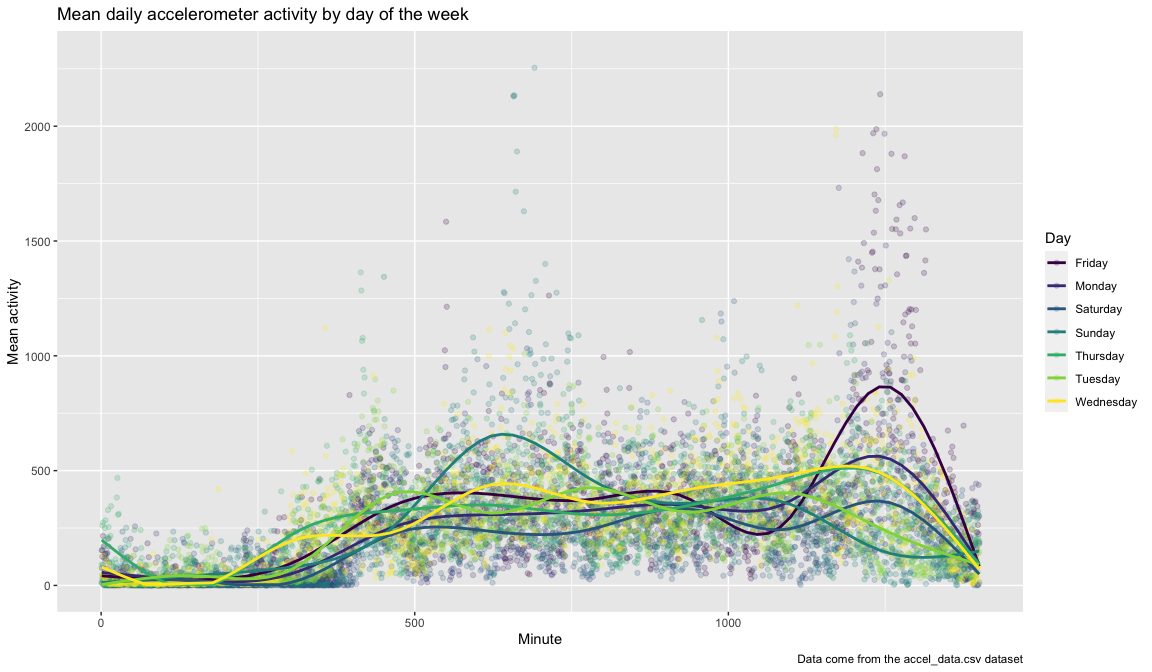
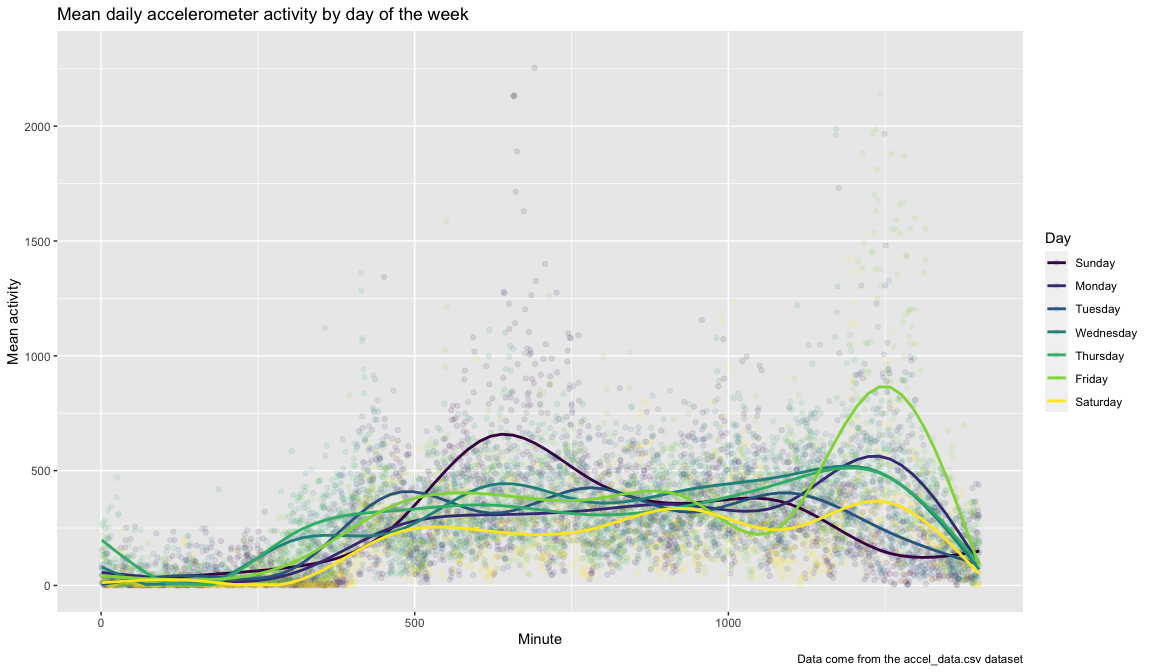
Problem 2 relevel days of the week

diff --git a/p8105_hw3_my2731.md b/p8105_hw3_my2731.md
@@ -153,16 +153,19 @@ dataset, which contains five weeks of accelerometer data collected on a
 Center of Columbia University Medical Center and diagnosed with
 congestive heart failure (CHF).
 
-We will apply snake case to all the variables, add a logical `weekend`
-variable that is `TRUE` if `day == c("Saturday", "Sunday")` and `FALSE`
-otherwise.
+We will apply snake case to all the variables, categorize and re-level
+the `day` variable according to the days of the week, and add a logical
+`weekend` variable that is `TRUE` if `day == c("Saturday", "Sunday")`
+and `FALSE` otherwise.
 
 ``` r
 accel_data =
   read_csv("./data/accel_data.csv") %>% 
   janitor::clean_names() %>% 
   mutate(
-    weekend = ifelse(day == "Saturday" | day == "Sunday", TRUE, FALSE)) %>% 
+    weekend = ifelse(day == "Saturday" | day == "Sunday", TRUE, FALSE),
+    day = factor(day, levels = c("Sunday", "Monday", "Tuesday", "Wednesday", 
+                                 "Thursday", "Friday", "Saturday"))) %>% 
   relocate(weekend, .after = day)
 
 accel_data
@@ -170,7 +173,7 @@ accel_data
 
     ## # A tibble: 35 × 1,444
     ##     week day_id day      weekend activ…¹ activ…² activ…³ activ…⁴ activ…⁵ activ…⁶
-    ##    <dbl>  <dbl> <chr>    <lgl>     <dbl>   <dbl>   <dbl>   <dbl>   <dbl>   <dbl>
+    ##    <dbl>  <dbl> <fct>    <lgl>     <dbl>   <dbl>   <dbl>   <dbl>   <dbl>   <dbl>
     ##  1     1      1 Friday   FALSE      88.4    82.2    64.4    70.0    75.0    66.3
     ##  2     1      2 Monday   FALSE       1       1       1       1       1       1  
     ##  3     1      3 Saturday TRUE        1       1       1       1       1       1  
@@ -280,7 +283,7 @@ according to the day of the week.
 ``` r
 activity_plot = daily_activity %>% 
   ggplot(aes(x = minute, y = mean_activity, color = day)) + 
-  geom_point(alpha = 0.2) + 
+  geom_point(alpha = 0.1) + 
   geom_smooth(se = FALSE) + 
   labs(
     x = "Minute",
